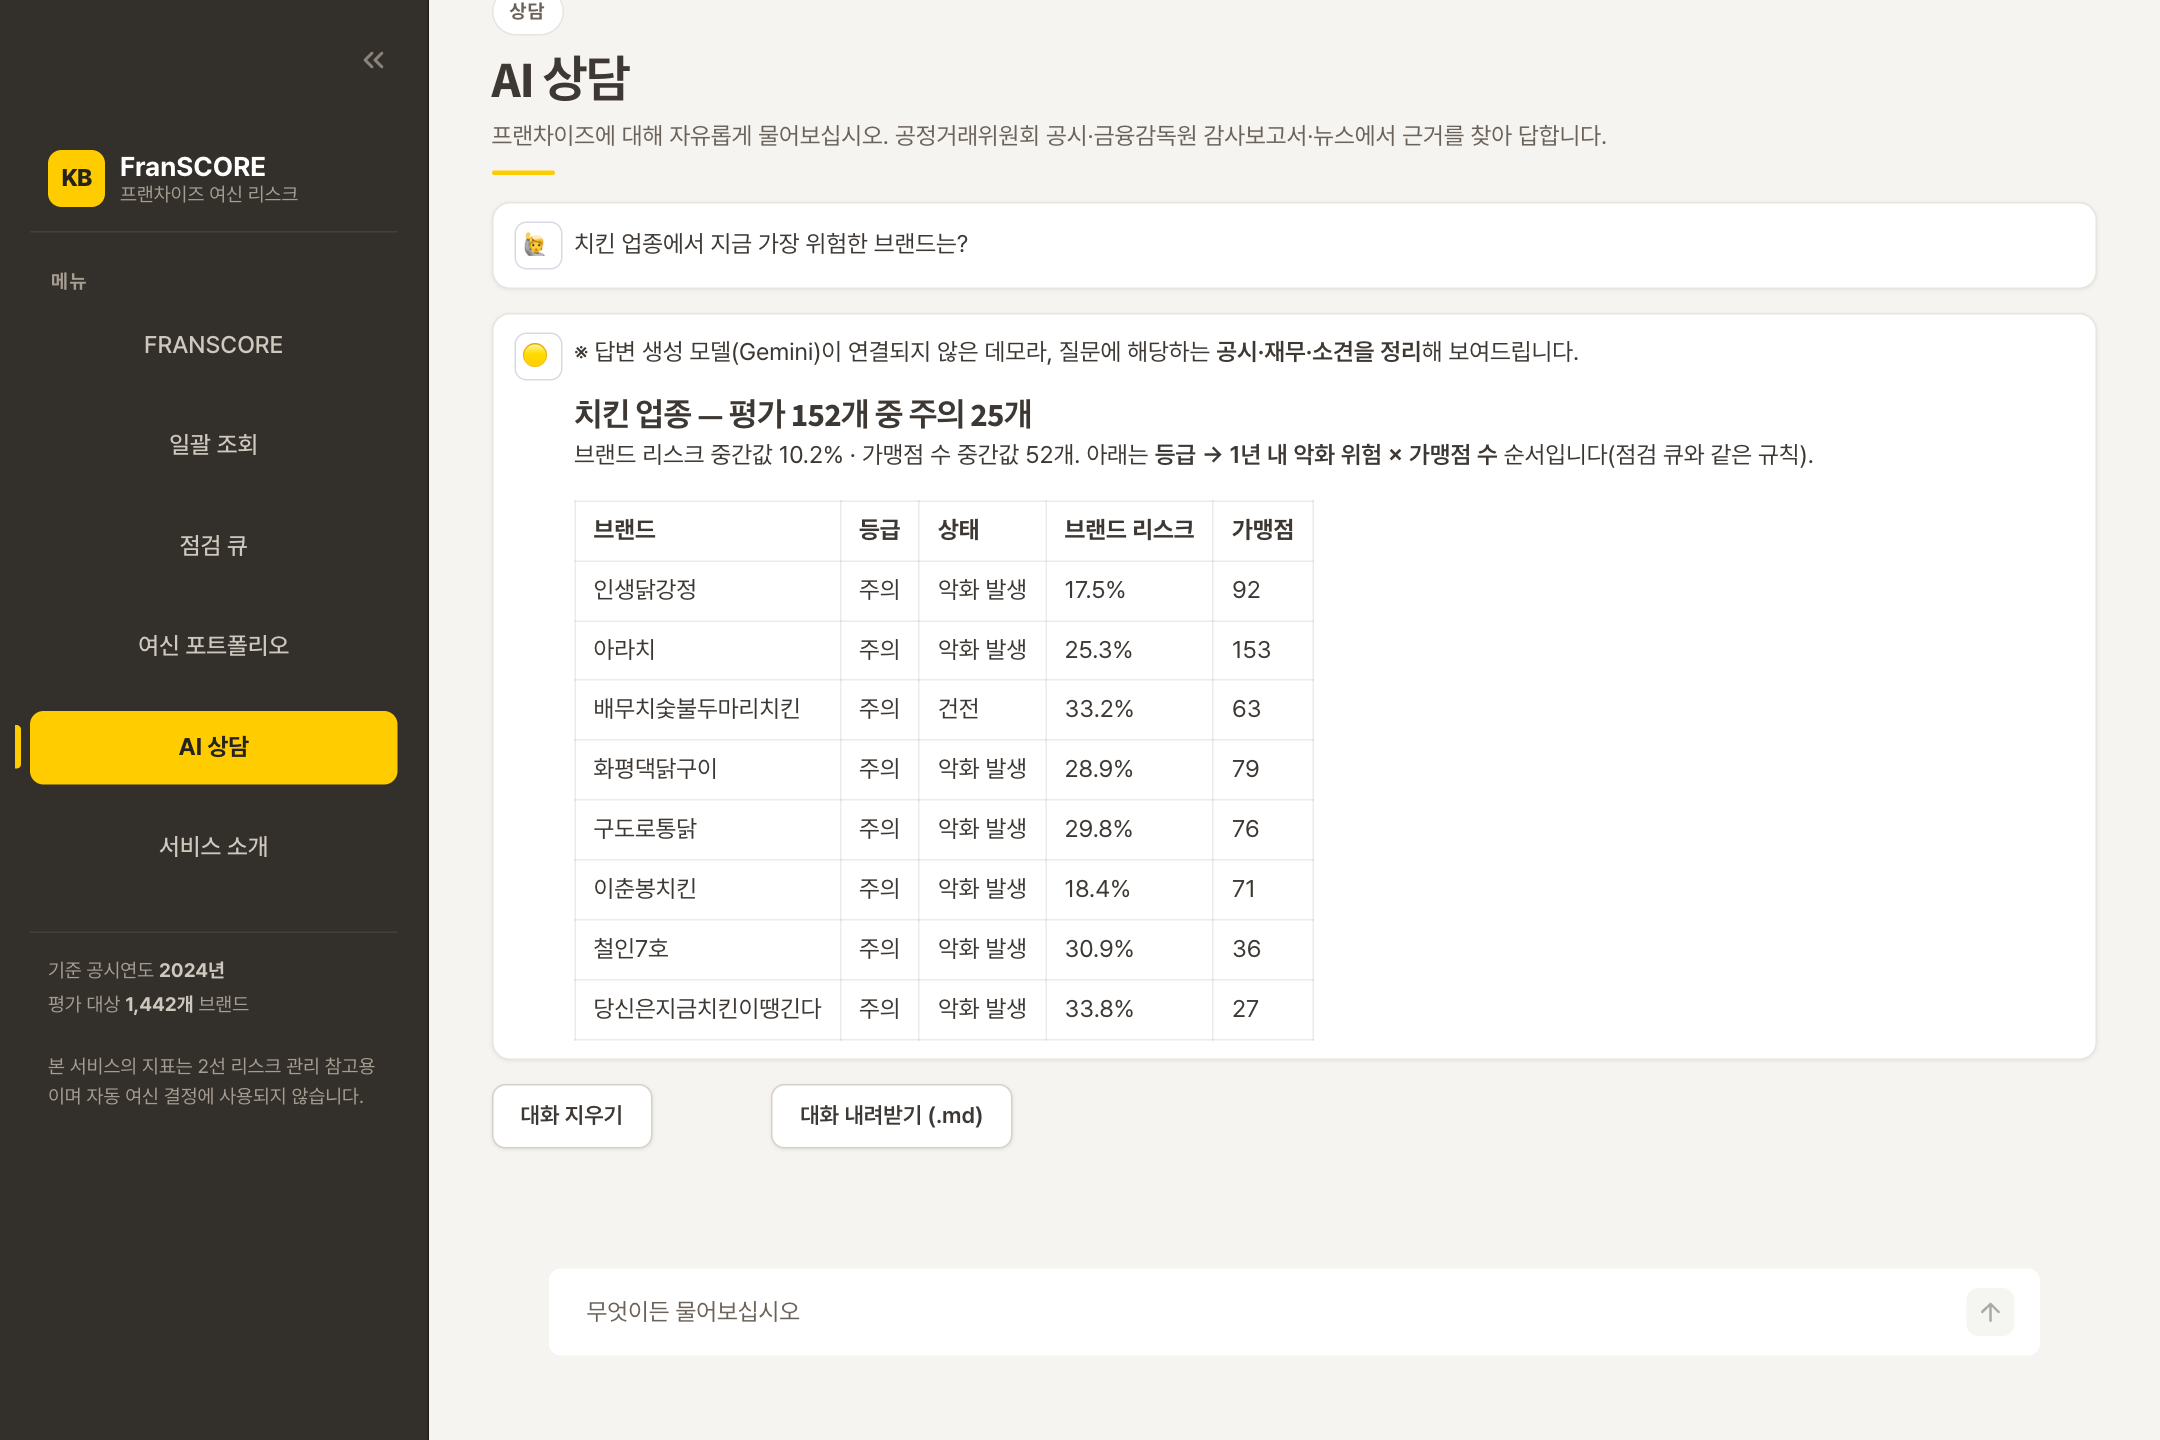
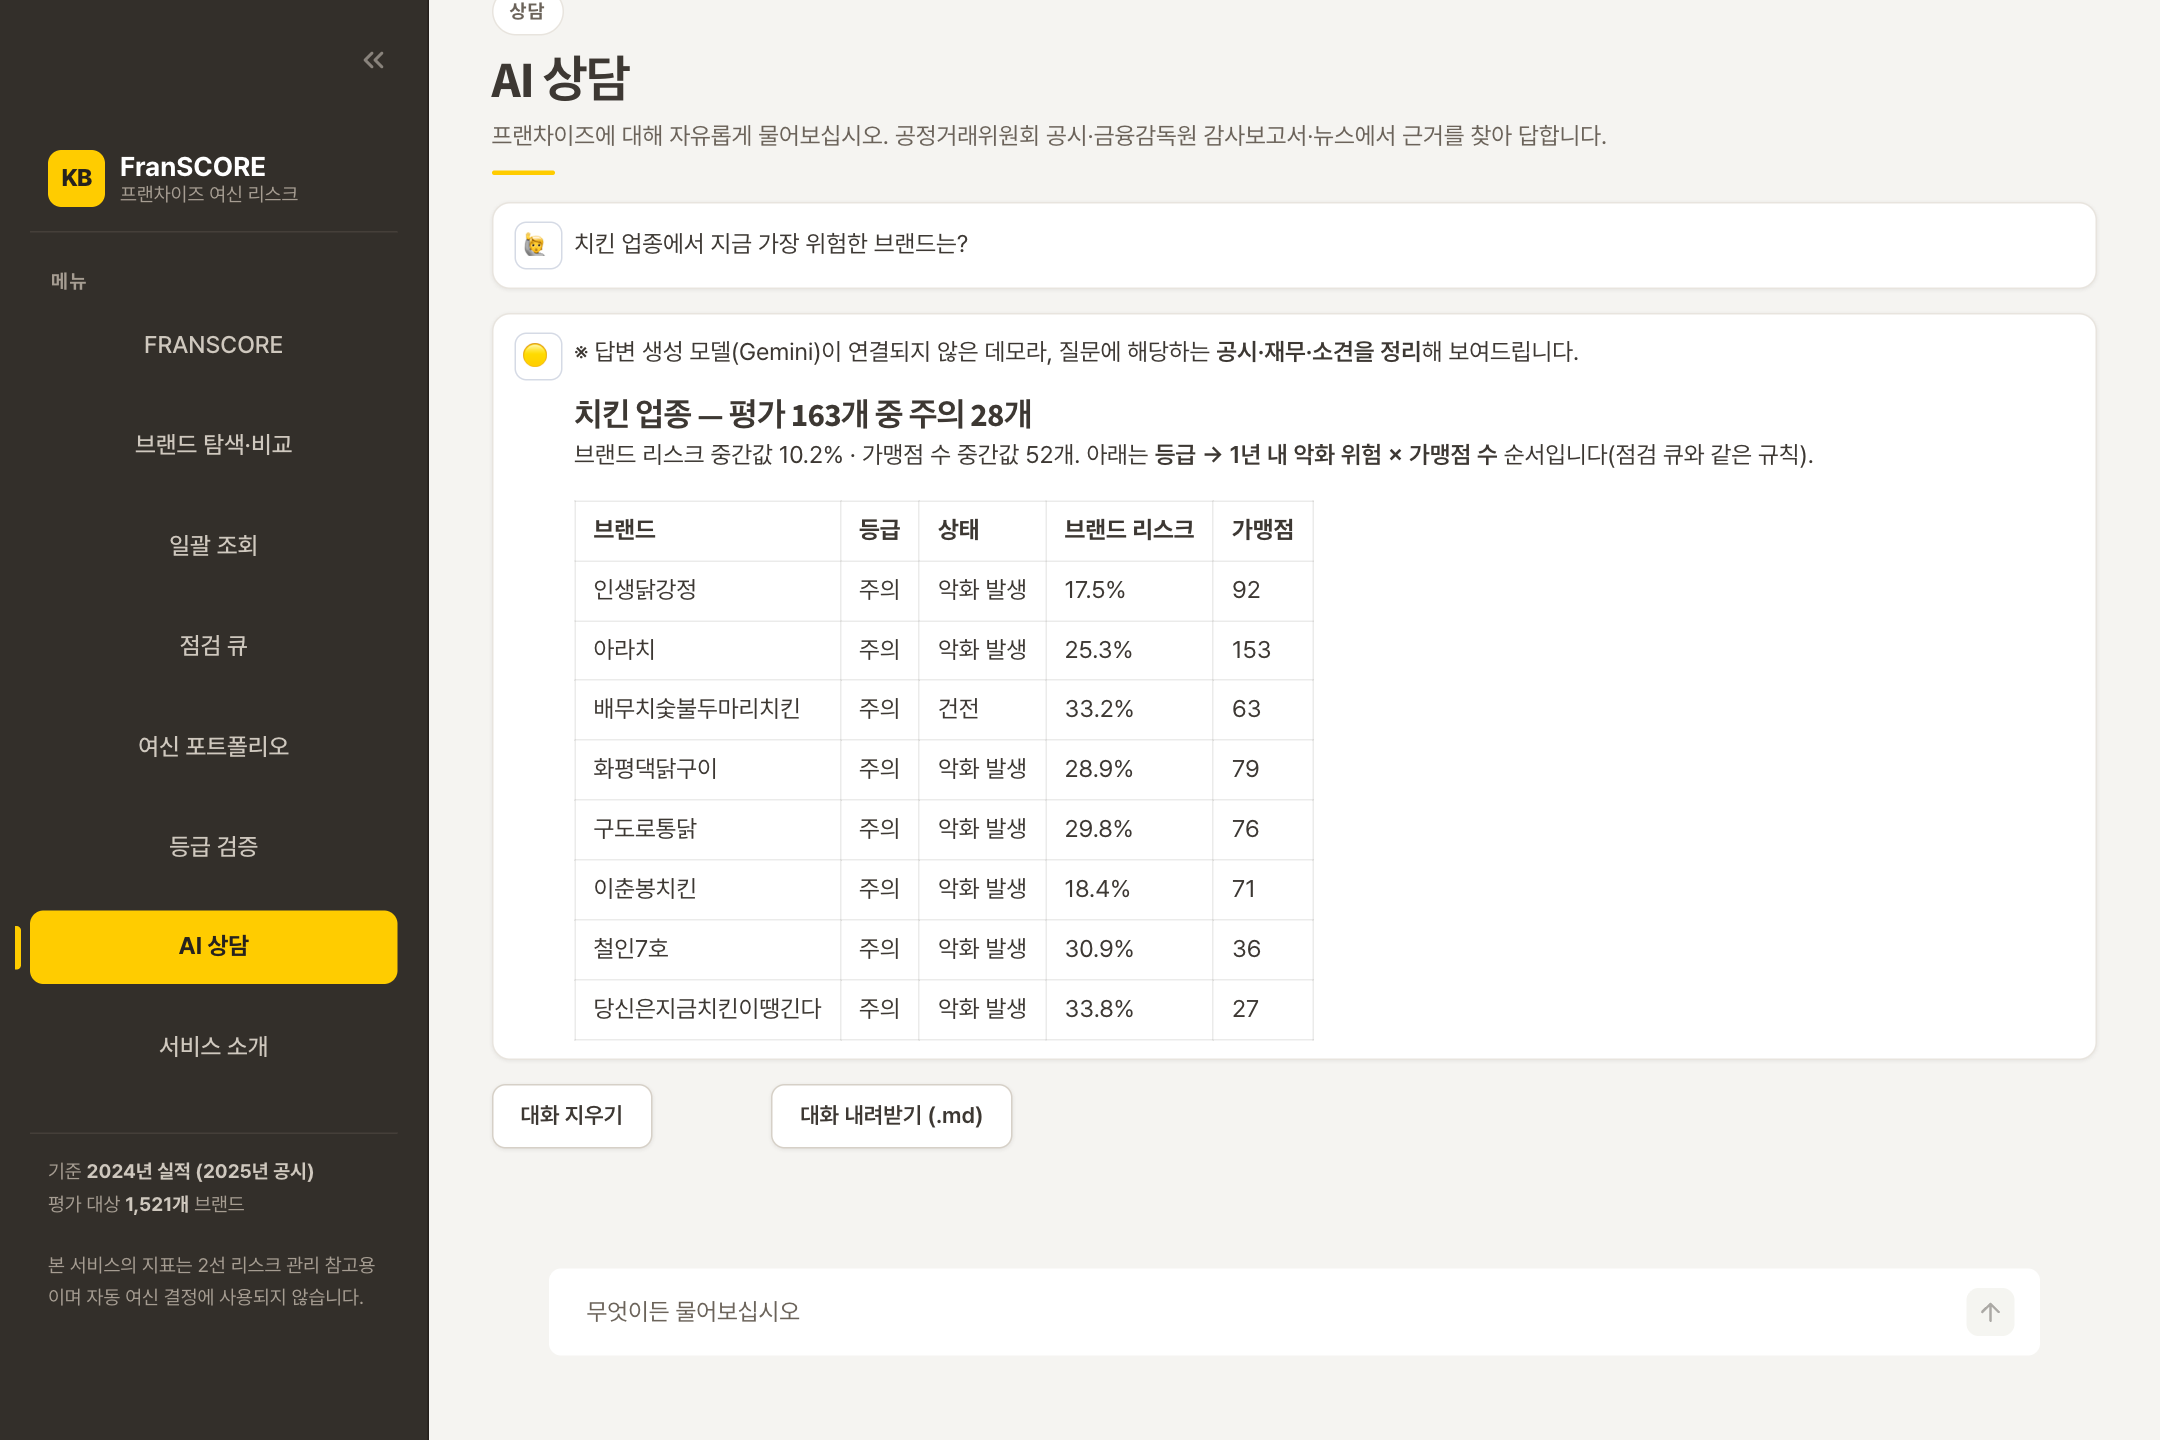
README·문서를 2차 확장 기능 기준으로 갱신하고 화면 스크린샷 교체
- README: 업무 표에 협약대출(탐색·비교)·모형 검증(등급 검증) 추가, 은행 자료 연결(장부·연체·
  휴폐업) 요약, 화면 8칸(탐색·비교·등급 검증 신규, 포트폴리오는 장부 업로드 후 꼬리손실),
  평가 범위 보정·연도 표기, 은행 자료 검증 절차, CI 배지, 아키텍처·키 안내·구조·한계 갱신
- 스크린샷: 실명 브랜드의 '주의' 등급을 새로 싣지 않도록 상세·참고의견서를 BBQ(안정·공시
  공백 보정)로 교체. 등급 검증 그림은 가상 시연 자료임을 설명에 밝힘
- OPERATIONS: 갱신 캘린더에 평가 범위 보정·인허가 신호·차주 휴폐업, 화면 업로드 계약 2종,
  파일럿 성공 기준을 등급 검증 판정으로
- MODEL_USE_SPEC: 중요도 전환 전 은행 연체 자료 검증 절차와 고정 기준
- TECHNICAL_REPORT 로드맵: 구현된 항목(장부 연결·연체 검증·인허가·국세청) 상태 반영
- DEPLOY: 키 없이 8개 화면, 공공데이터 키의 새 용도와 활용신청 안내
- 공시 공백 보정으로 새로 평가된 브랜드의 검색수요 미수집 안내를 정확히 표시

diff --git a/src/views/franscore.py b/src/views/franscore.py
@@ -735,8 +735,14 @@ def _tab_demand(brand_id: str, name: str) -> None:
         return
     d = (obj.get("brands") or {}).get(brand_id)
     if not d:
-        st.caption(f"'{name}'의 검색 추세는 아직 수집되지 않았습니다. "
-                   "검색수요는 가맹점 수가 많은 상위 브랜드부터 수집합니다.")
+        df, _ = C.load_scores()
+        row = df[df["brand_id"].astype(str) == str(brand_id)] if df is not None else None
+        if row is not None and not row.empty and C.is_bridged(row.iloc[0]):
+            st.caption(f"'{name}'은 공시 공백 보정으로 이번에 새로 평가된 브랜드라 검색 추세가 아직 "
+                       "수집되지 않았습니다. 다음 수집 때 포함됩니다.")
+        else:
+            st.caption(f"'{name}'의 검색 추세는 아직 수집되지 않았습니다. "
+                       "검색수요는 가맹점 수가 많은 상위 브랜드부터 수집합니다.")
         return
 
     b, cy = d.get("brand_yoy"), d.get("category_yoy")

diff --git a/src/report.py b/src/report.py
@@ -795,6 +795,9 @@ def _overview(ctx: dict, name: str) -> str:
             if d.get("category") else ""
         dem = (f"브랜드 {_signed_pct(_num(d.get('brand_yoy')))}{cat} "
                "<span class='muted'>(최근 12개월 대비 직전 12개월, 네이버 데이터랩)</span>")
+    elif str(b.get("eligibility_basis") or "") not in ("", "정규", "nan"):
+        dem = ("<span class='muted'>수집되지 않음 — 공시 공백 보정으로 새로 평가된 브랜드라 "
+               "다음 수집 때 포함됩니다</span>")
     else:
         dem = "<span class='muted'>수집되지 않음 — 가맹점 수가 많은 브랜드부터 수집합니다</span>"
     rows = [

diff --git a/DEPLOY.md b/DEPLOY.md
@@ -107,8 +107,8 @@ https://github.com/AISWKimBeomSu/KB_franSCORE/blob/main/src/app.py
 
 ### 1-2. API 키 등록 (선택)
 
-**키가 하나도 없어도 앱은 정상 동작합니다.** 새로 clone 한 상태에서 키 없이 5개
-화면이 전부 뜨는 것을 실측 확인했습니다. 이미 수집해 둔 산출물(점수·진단 소견·
+**키가 하나도 없어도 앱은 정상 동작합니다.** 새로 clone 한 상태에서 키 없이 8개
+화면이 전부 뜨는 것을 실측 확인했습니다(전 화면 스모크 테스트가 매 푸시 CI 에서 같은 확인을 합니다). 이미 수집해 둔 산출물(점수·진단 소견·
 로고 611건·검색수요 292건)이 저장소에 들어 있기 때문입니다.
 
 키는 **다시 수집하거나 AI 상담 답변을 생성할 때만** 필요합니다.
@@ -117,7 +117,8 @@ https://github.com/AISWKimBeomSu/KB_franSCORE/blob/main/src/app.py
 |---|---|---|
 | `GEMINI_API_KEY`<br>`GEMINI_API_KEY_2` | AI 상담이 답변을 만들지 않고 **수집된 사실만 정리**해 보여줍니다 | [aistudio.google.com/apikey](https://aistudio.google.com/apikey) |
 | `NCP_API_KEY_ID`<br>`NCP_API_KEY` | 이미 수집된 292개 브랜드의 검색수요는 **그대로 보입니다**. 갱신만 안 됩니다 | NCP 콘솔 → NAVER API HUB → Application |
-| `DART_API_KEY` | 이미 수집된 본부 재무는 그대로 보입니다. 갱신만 안 됩니다 | [opendart.fss.or.kr](https://opendart.fss.or.kr) |
+| `DART_API_KEY` | 이미 수집된 본부 재무는 그대로 보입니다. 갱신과 감사의견 원문 대조만 안 됩니다 | [opendart.fss.or.kr](https://opendart.fss.or.kr) |
+| `DATA_GO_KR_KEY` | 일괄 조회의 차주 사업자 상태가 '확인불가'로 표시됩니다. 「국세청_사업자등록정보 진위확인 및 상태조회 서비스」(15081808) **활용신청을 따로** 해야 합니다 | [data.go.kr](https://www.data.go.kr/data/15081808/openapi.do) |
 
 등록: 배포된 앱 → 우측 하단 `Manage app` → `Settings` → `Secrets` 에 붙여넣습니다.
 
@@ -127,6 +128,7 @@ GEMINI_API_KEY_2 = "예비-키 (선택)"
 NCP_API_KEY_ID = "여기에-아이디"
 NCP_API_KEY = "여기에-시크릿"
 DART_API_KEY = "여기에-키"
+DATA_GO_KR_KEY = "여기에-키 (공공데이터포털 일반 인증키 — Decoding 값)"
 ```
 
 저장하면 앱이 자동 재시작합니다. `src/common.load_secrets()` 가 이 값을 환경변수로

diff --git a/docs/TECHNICAL_REPORT.md b/docs/TECHNICAL_REPORT.md
@@ -2863,20 +2863,23 @@ fold 척도 문제를 깨끗이 없애고 Spiegelhalter 도 통과한다. 그러
 1. **정보공개서 정식 키** → 본부 재무 11.4% → 95%+ (파서·정합 이미 완성)
 2. **CI 시크릿 등록** → 일간 배치 정상 가동 (배선 완료)
 3. **Gemini 프로젝트 추가** → 로고 42.4% → 완주
+4. **DART 키** → 감사의견 원문 대조 (`tools/verify_audit_opinions.py`, 비적정 판독 147행 — 파서 재작성 완료)
+5. **공공데이터 키 + 데이터셋 15081808 활용신청** → 일괄 조회의 차주 휴·폐업 확인 가동 (배선 완료)
 
 ### 48-2. 은행 내부 데이터 연결 시
 
 | 붙이는 것 | 열리는 것 |
 |---|---|
-| 실여신 CSV (3컬럼) | 절대 금액이 실측이 됨. HHI·EL·UL 이 실제 포트폴리오 값 |
-| 부도·연체 라벨 | **라벨을 부도로 교체 가능** — 그때는 PD 라 부를 수 있다 |
+| 실여신 장부 | **구현됨** — 여신 포트폴리오 화면에서 올리면 HHI·EL·꼬리손실이 그 장부로 재계산 (`src/loanbook.py`) |
+| 부도·연체 라벨 | **검증 절차 구현됨** — 등급 검증 화면(`src/delinquency.py`)으로 먼저 확인하고, 통과하면 라벨을 부도로 교체해 PD 라 부를 수 있다 |
 | 가맹점-브랜드 매핑 | 차주 단위 상관 모형의 분모가 실측이 됨 |
 
 ### 48-3. 추가 데이터 경로 (조사 완료, 미실행)
 
 | 경로 | 상태 |
 |---|---|
-| `file.localdata.go.kr` 직접 다운로드 (일반음식점 694MB, 폐업일자 최신) | 조사에서 확인 — 후속 과제 |
+| `file.localdata.go.kr` 인허가 (전국 일반음식점 697.6MB·휴게음식점 207.8MB, 매일 갱신) | **모듈 구현** (`src/localdata.py`) — 지역 4곳 실측(19만 건)으로 매칭 정밀도 확인. 전국 파일이나 API 키로 신호표를 만들면 브랜드 상세에 표시 |
+| 국세청 사업자등록 상태조회 (15081808) | **모듈·화면 연결 구현** (`src/nts.py`, 일괄 조회) — 키·활용신청 뒤 동작 |
 | 공정위 보도자료 PDF (차액가맹금·세부업종 개폐점률) | 미착수 |
 | DART 음차 매칭 확장 | 확정 3/7 — 효과 제한적 |
 

diff --git a/docs/MODEL_USE_SPEC.md b/docs/MODEL_USE_SPEC.md
@@ -144,6 +144,21 @@
 3. 이 도구를 참조해 관리되는 여신 잔액이 **자영업자 포트폴리오의 유의한 비중**에 이를 때
 4. 대외 공표물(IR·공시·마케팅)에 산출물이 인용될 때
 
+**전환 전에 먼저 할 일 — 은행 연체 자료로 검증.** 라벨이 연체가 아니므로, 1번(심사 입력)으로
+가려면 은행 자료로 먼저 확인해야 한다. 그 절차는 **등급 검증** 화면(`src/delinquency.py`)에
+고정돼 있다.
+
+| 단계 | 기준 (코드에 고정 — 결과를 보고 바꾸지 않는다) |
+|---|---|
+| 시점 정합 | 대출을 취급 당시 볼 수 있던 등급(취급연도 − 2년 실적, `outputs/grade_history.csv`)에 맞춘다. 학습 연도 등급은 쓰지 않는다 |
+| 생존 편향 | 그사이 사라진 브랜드까지 평가 이력 전체에서 매칭한다 |
+| 서열성 | 안정 < 관찰 < 주의 순서 + 주의−안정 연체율 차이의 브랜드 군집 부트스트랩 95% 구간 > 0 |
+| 추가 정보 | `연체 ~ 내부등급 + 브랜드 위험` 의 브랜드 위험 오즈비 하한 > 1 (브랜드 군집 강건 표준오차) |
+| 표본 | 등급별 연체 10건·전체 30건 이상. 미달이면 판정 보류 |
+
+서열성만 '확인'이면 사후관리·편중 관리 참고용에 머문다. 추가 정보까지 '확인'이어야 심사 보조지표로
+올리는 정식 모형 검증을 시작할 근거가 된다.
+
 ---
 
 ## 6. 알려진 한계 (전부 실측)
